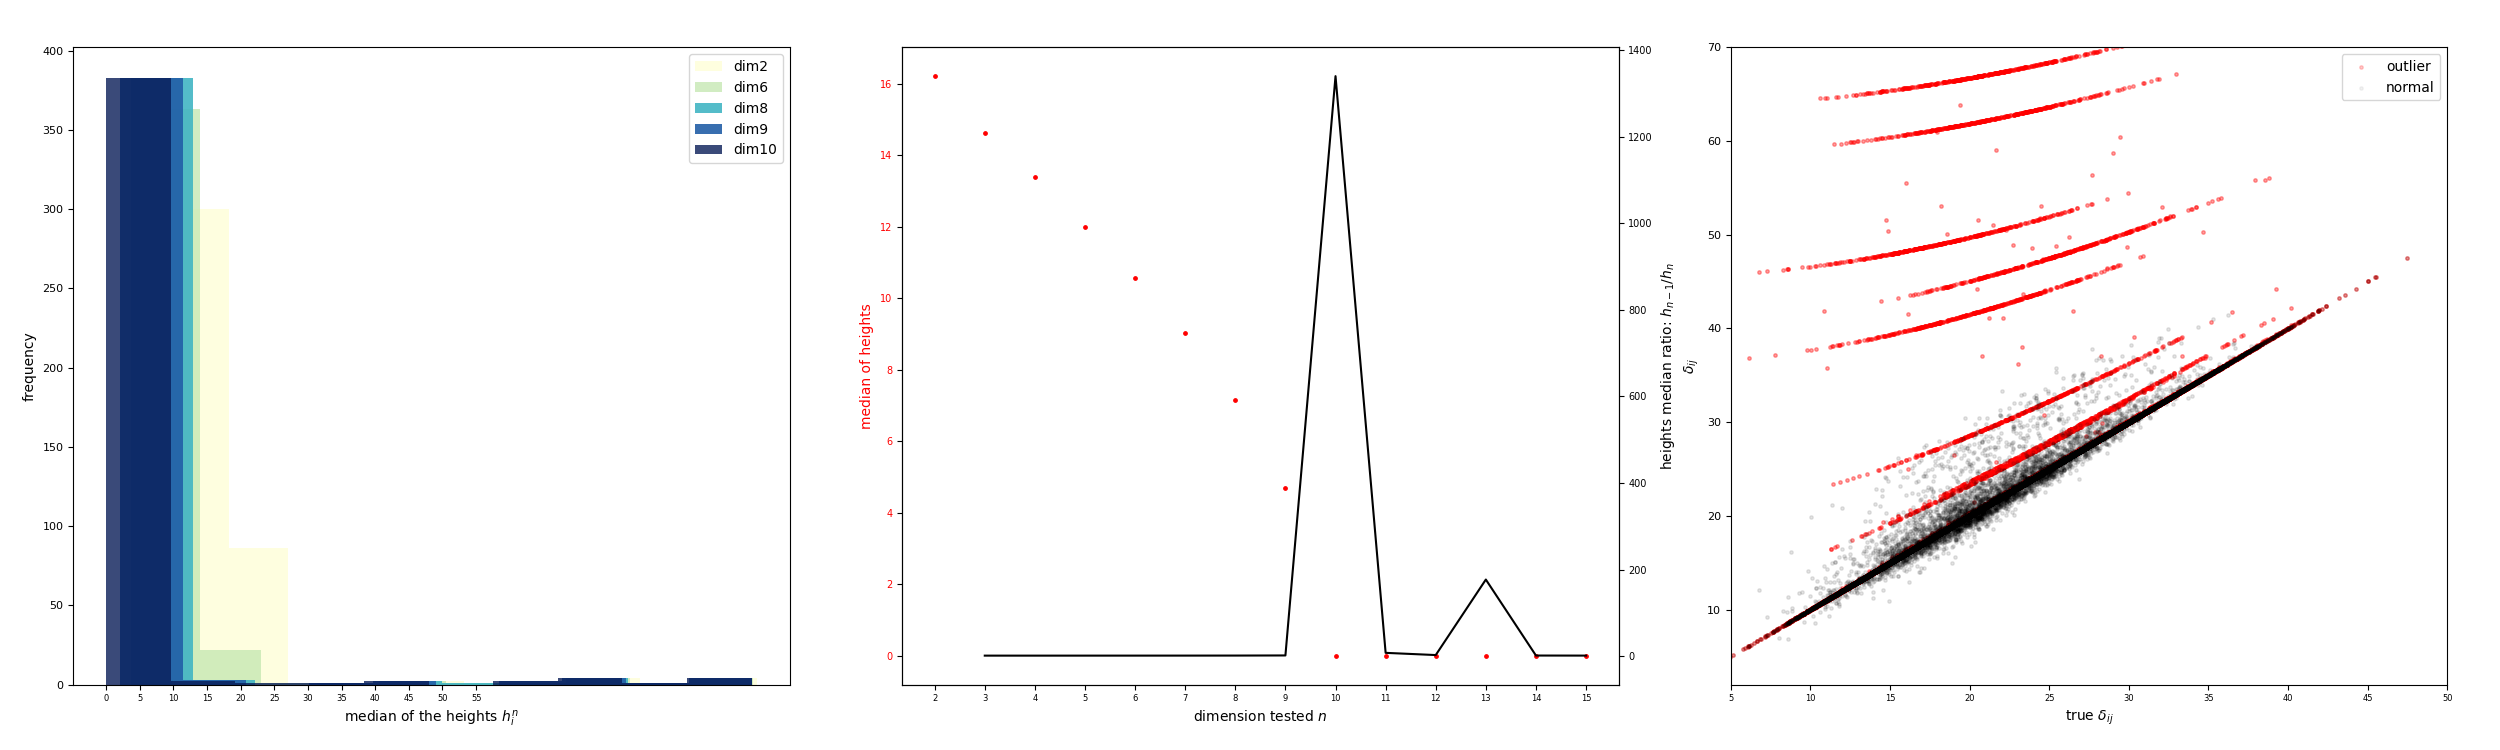
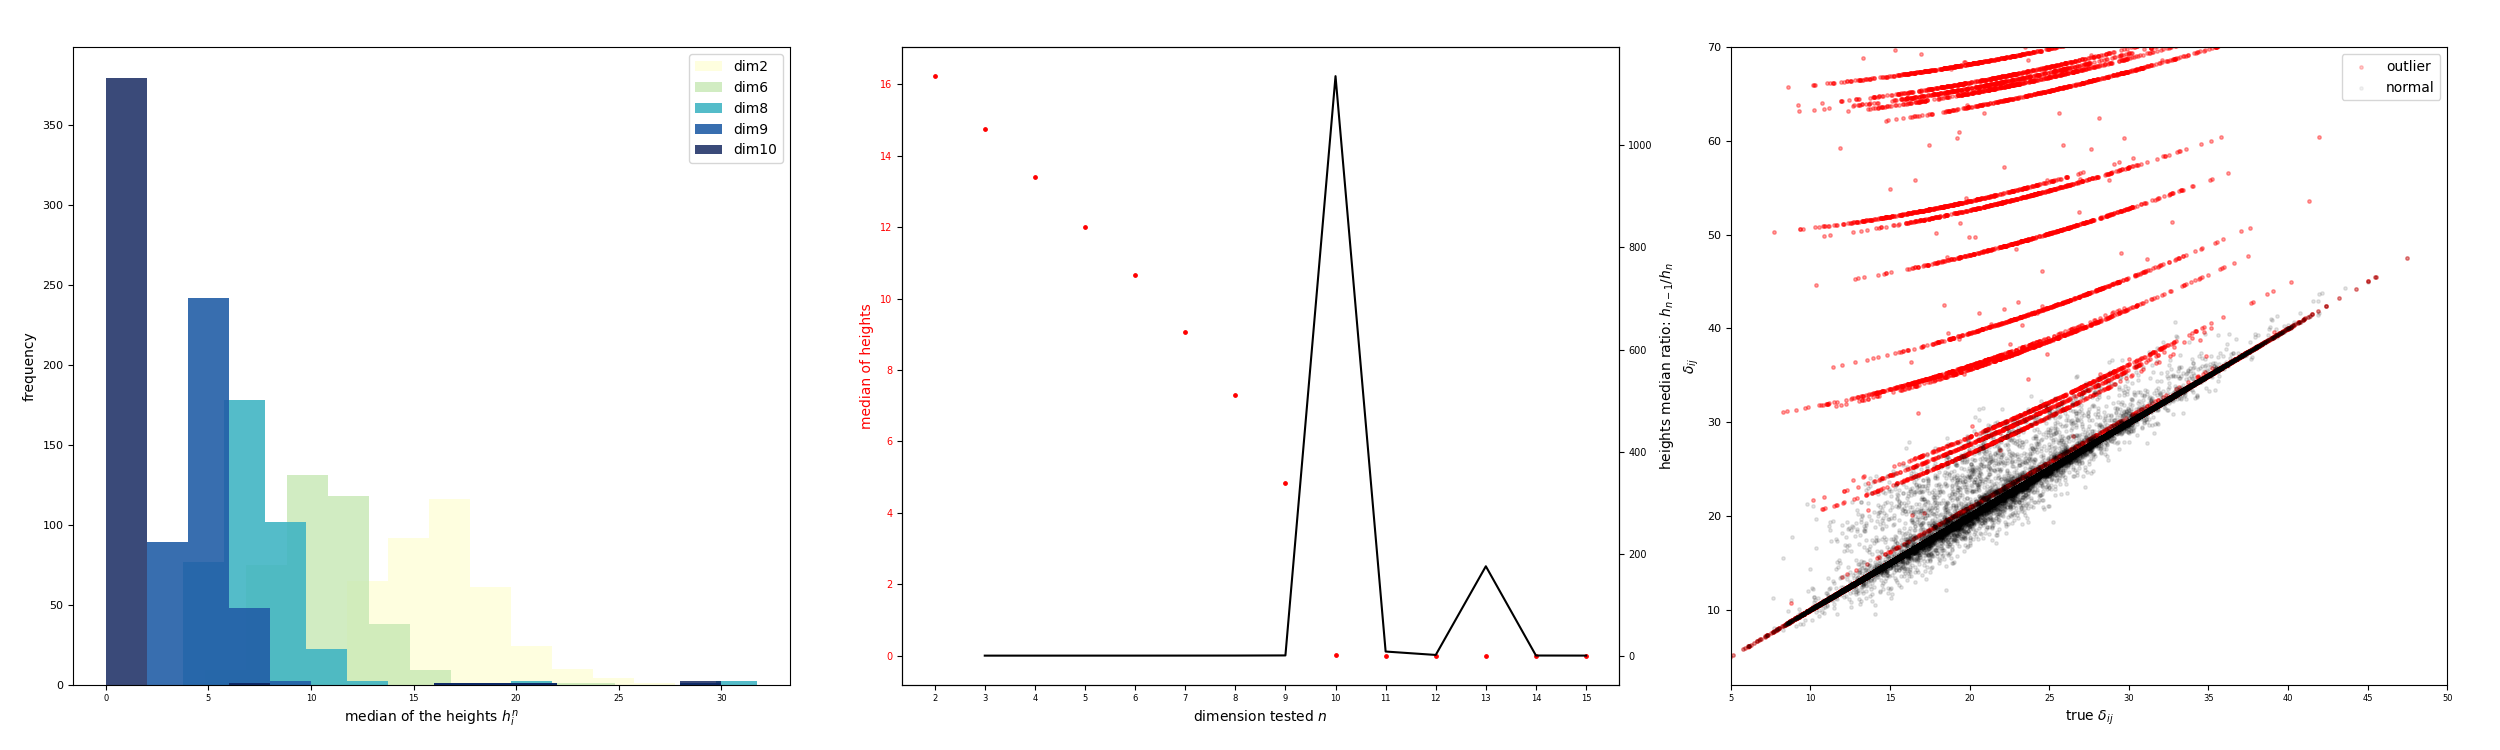
fixed bin size in synthetic_dim10

diff --git a/exp_synthetic/test_synthetic_datasets.py b/exp_synthetic/test_synthetic_datasets.py
@@ -391,24 +391,26 @@ if not os.path.exists(dim10_fig_path):
 
     # plt.figure()
     # select a few dimensions (i.e. 2,6,8,9,10) for demonstrating the distributions of heights
-    ax1.hist(hcolls[2-start_dim],label='dim2',color=blues[0])
-    ax1.hist(hcolls[6-start_dim],label='dim6',color=blues[1])
-    ax1.hist(hcolls[8-start_dim],label='dim8',color=blues[2])
-    ax1.hist(hcolls[9-start_dim],label='dim9',color=blues[3])
-    ax1.hist(hcolls[10-start_dim],label='dim10',color=blues[4])
+    max_x = 30
+    bin_width=2
+    ax1.hist(hcolls[2-start_dim],label='dim2',color=blues[0], \
+        bins=np.arange(min(hcolls[2-start_dim]), 30 + bin_width, bin_width))
+    ax1.hist(hcolls[6-start_dim],label='dim6',color=blues[1], \
+        bins=np.arange(min(hcolls[6-start_dim]), 30 + bin_width, bin_width))
+    ax1.hist(hcolls[8-start_dim],label='dim8',color=blues[2], \
+        bins=np.arange(min(hcolls[8-start_dim]), 30 + bin_width, bin_width))
+    ax1.hist(hcolls[9-start_dim],label='dim9',color=blues[3], \
+        bins=np.arange(min(hcolls[9-start_dim]), 30 + bin_width, bin_width))
+    ax1.hist(hcolls[10-start_dim],label='dim10',color=blues[4], \
+        bins=np.arange(min(hcolls[10-start_dim]), 30 + bin_width, bin_width))
 
-    ax1.set_xticks(np.arange(0, 60, 5))
+    ax1.set_xticks(np.arange(0, 35, 5))
     ax1.tick_params(axis='x', labelsize=6)
     ax1.tick_params(axis='y', labelsize=8)
     ax1.set_ylabel("frequency")
     ax1.set_xlabel(r'median of the heights $h^{n}_i$')
     ax1.legend()
 
-
-
-    
-    # plt.savefig("./outputs/synthetic_dim10_height_dist.png")
-    # plt.close()
 
     # In[26]:
 
